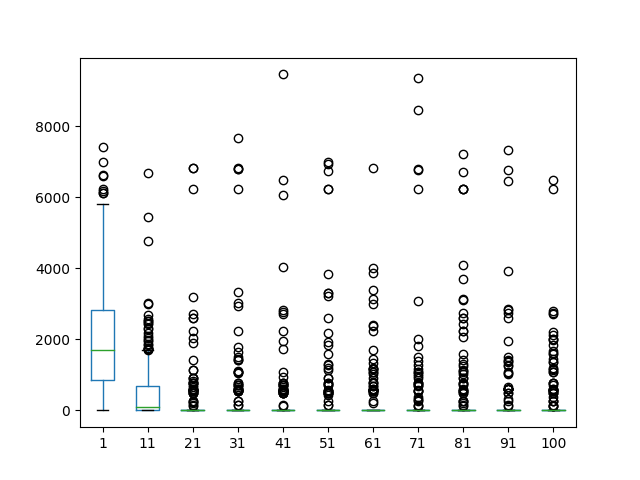
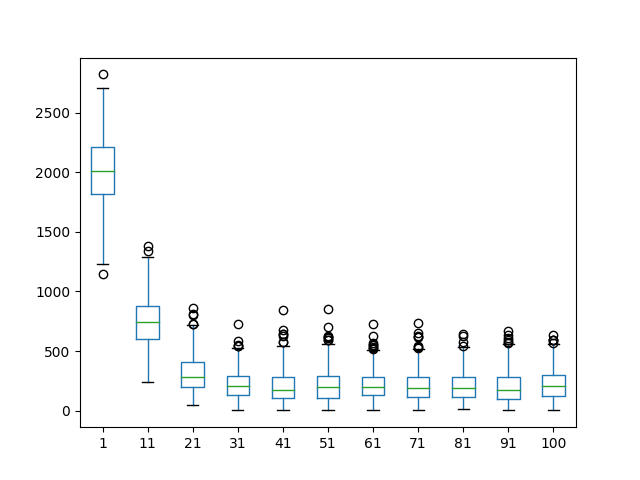
oi

diff --git a/diet.py b/diet.py
@@ -102,8 +102,6 @@ def evaluate_mono(individual):
     tot_carb = sum(x*y for x, y in zip(carb_data, individual))
     cals = prot_cal_p_gram * tot_prot + carb_cal_p_gram * \
         tot_carb + fat_cal_p_gram * tot_fat
-    if abs(cals - total_calories) == 0:
-        print('ZERO *')
     return abs(cals - total_calories),
 
 
@@ -161,7 +159,7 @@ def main(multi=False):
     while g < number_generation:
         # A new generation
         g += 1
-        print("-- Generation %i --" % g)
+        # print("-- Generation %i --" % g)
 
         # Select the next generation individuals
         offspring = toolbox.select(pop, len(pop))
@@ -196,26 +194,9 @@ def main(multi=False):
         sum2 = sum(x*x for x in fits)
         std = abs(sum2 / length - mean**2)**0.5
         gen.loc[:,g] = fits
-        # print(gen)
-        print(min(fits), max(fits), mean, std)
+        # print(min(fits), max(fits), mean, std)
 
     best = pop[np.argmin([toolbox.evaluate(x) for x in pop])]
-    _, ax = plt.subplots()
-    columns = [i for i in range(1, number_generation, int(number_generation/10))]
-    columns.append(number_generation)
-
-    genFilteredColumns = gen[columns]
-    mean = pd.DataFrame(columns=['mean'])
-    for i in range(1,number_generation+1):
-        mean.loc[i] = gen[i].mean()
-    mean.plot(ax=ax)
-
-    plt.savefig("images/mean.png")
-    _, ax = plt.subplots()
-    boxplot = genFilteredColumns.boxplot(ax=ax, grid=False)
-
-    plt.savefig("images/boxplot.png")
-
     end_time = time.time()
 
     if multi:
@@ -228,9 +209,11 @@ def main(multi=False):
     return best
 
 
-gen_list = []
+gen_list_mono = []
+gen_list_mult = []
 
 for i in range(35):
+    print("-- Round %i --" % i)
     # this is the setup of the deap library: registering the different function into the toolbox
     creator.create("FitnessMin", base.Fitness, weights=(-1.0,))
     creator.create("Individual", list, fitness=creator.FitnessMin)
@@ -246,10 +229,10 @@ for i in range(35):
     # print(toolbox.population(n=10))
     best_solution = main()
 
-    gen_list.append(gen)
+    gen_list_mono.append(gen)
 
     products_table['univariate_choice'] = pd.Series(best_solution[0])
-    print(products_table[['Name', 'univariate_choice']])
+    # print(products_table[['Name', 'univariate_choice']])
 
     # ------------------------------------------------------------------------------------------------------------------
 
@@ -270,7 +253,8 @@ for i in range(35):
 
     best_solution = main(True)
 
-    gen_list.append(gen)
+    gen_list_mult.append(gen)
+
 
     products_table['multivariate_choice'] = pd.Series(best_solution[0])
 
@@ -310,12 +294,35 @@ for i in range(35):
     summary["multiv_error"] = (
         summary["goal"] - summary["multivariate"]).apply(abs)
 
-    print(summary)
+    # print(summary)
 
-    print((summary["univ_error"].sum(), summary["multiv_error"].sum()))
+    # print((summary["univ_error"].sum(), summary["multiv_error"].sum()))
 
     # Shopping list
-    print(products_table[['Name', 'multivariate_choice', 'univariate_choice']])
+    # print(products_table[['Name', 'multivariate_choice', 'univariate_choice']])
 
-print("mono  execution time = {}".format(mono_time))
-print("multi execution time = {}".format(mult_time))
+
+# average values in 35 rounds
+df_concat = pd.concat(gen_list_mono)
+by_row_index = df_concat.groupby(df_concat.index)
+df_means = by_row_index.mean()
+
+# plot boxplot
+_, ax = plt.subplots()
+columns = [i for i in range(1, number_generation, int(number_generation/10))]
+columns.append(number_generation)
+genFilteredColumns = df_means[columns]
+boxplot = genFilteredColumns.boxplot(ax=ax, grid=False)
+plt.savefig("images/boxplot.png")
+
+# plot line chart
+_, ax = plt.subplots()
+mean = pd.DataFrame(columns=['mean'])
+for i in range(1,number_generation+1):
+    mean.loc[i] = df_means[i].mean()
+mean.plot(ax=ax)
+plt.savefig("images/mean.png")
+
+
+print("mono execution time = {}".format(mono_time))
+print("mult execution time = {}".format(mult_time))
